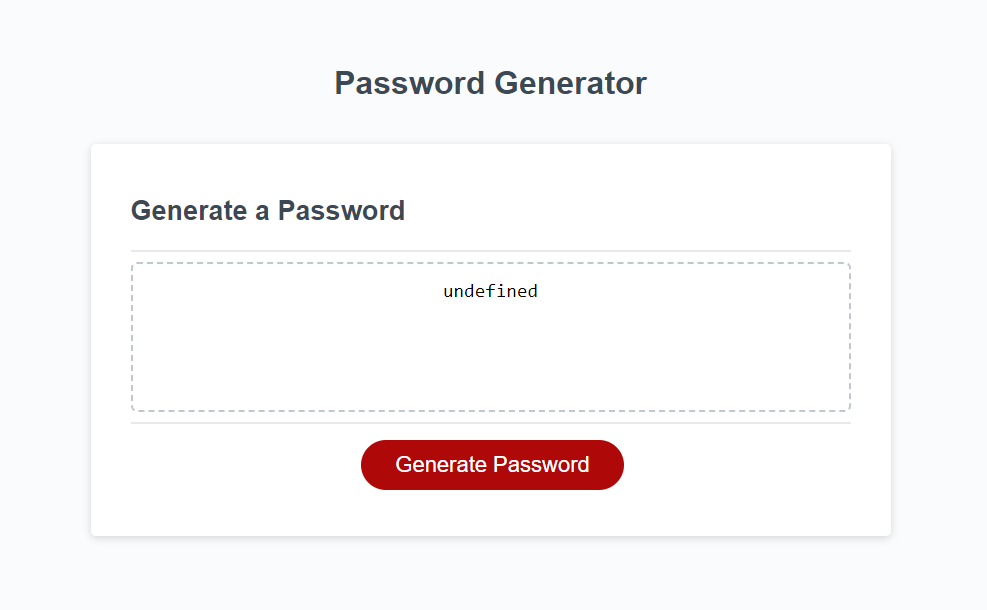
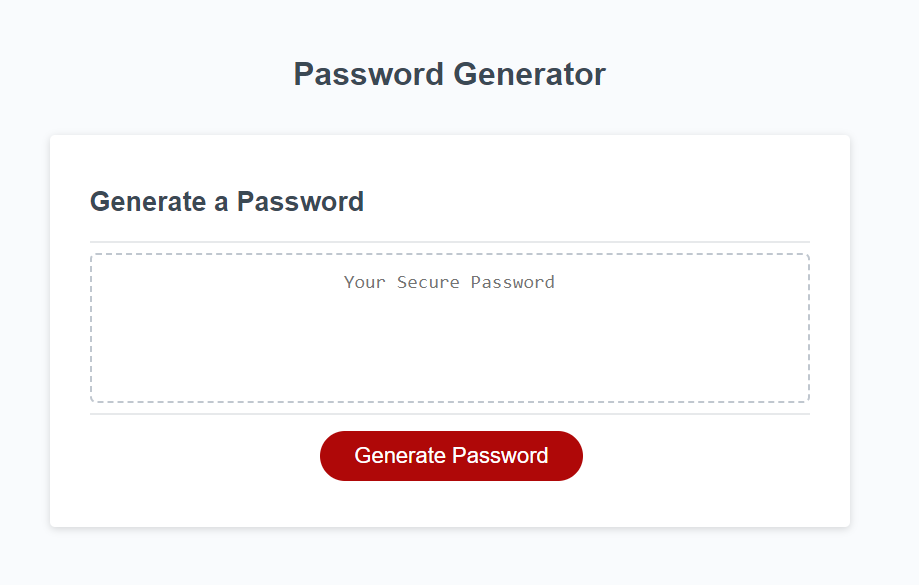
updating README

diff --git a/assets/assets/js/script.js b/assets/assets/js/script.js
@@ -107,7 +107,7 @@ function generatePassword() {
     console.log(password, PW.join(''));
   }
   }
-  return;
+
 }
 
 
@@ -117,4 +117,5 @@ function writePassword() {
 
   passwordText.value = password;
 }
+
 generateBtn.addEventListener("click", writePassword);

diff --git a/README.md b/README.md
@@ -3,10 +3,11 @@ An easy way to create a strong, random password.
 
 
 ## Description
+![alt text](./assets/assets/images/password%20stock.png)
 
 Create random passwords instantly with this Password Generator!
 Tailer your passwords to meet your specific requirements: length, upper and lower case letters, numbers, and special characters. 
-Completely free: no-login required; ad-free.
+**Completely free**: no-login required; ad-free.
 
 
 ## Table of Contents (Optional)
@@ -14,7 +15,6 @@ Completely free: no-login required; ad-free.
 - [Installation](#installation)
 - [Usage](#usage)
 - [Credits](#credits)
-- [License](#license)
 
 ## Installation
 
@@ -41,34 +41,9 @@ Free to use! No login required! Simply [click here](https://kathrynfisher3700.gi
 
 ## Credits
 
-List your collaborators, if any, with links to their GitHub profiles.
+Thank you to Brandon B. & Chris. P from my UCF Coding Bootcamp, Fall 2023 class.
+Parameters outlined by UCF Coding Bootcamp.
 
-If you used any third-party assets that require attribution, list the creators with links to their primary web presence in this section.
+JavaScript If Else statements found here: [W3 Schools](https://www.w3schools.com/js/js_if_else.asp).
 
-If you followed tutorials, include links to those here as well.
 
-## License
-
-The last section of a high-quality README file is the license. This lets other developers know what they can and cannot do with your project. If you need help choosing a license, refer to [https://choosealicense.com/](https://choosealicense.com/).
-
----
-
-🏆 The previous sections are the bare minimum, and your project will ultimately determine the content of this document. You might also want to consider adding the following sections.
-
-## Badges
-
-![badmath](https://img.shields.io/github/languages/top/nielsenjared/badmath)
-
-Badges aren't necessary, but they demonstrate street cred. Badges let other developers know that you know what you're doing. Check out the badges hosted by [shields.io](https://shields.io/). You may not understand what they all represent now, but you will in time.
-
-## Features
-
-If your project has a lot of features, list them here.
-
-## How to Contribute
-
-If you created an application or package and would like other developers to contribute to it, you can include guidelines for how to do so. The [Contributor Covenant](https://www.contributor-covenant.org/) is an industry standard, but you can always write your own if you'd prefer.
-
-## Tests
-
-Go the extra mile and write tests for your application. Then provide examples on how to run them here.
